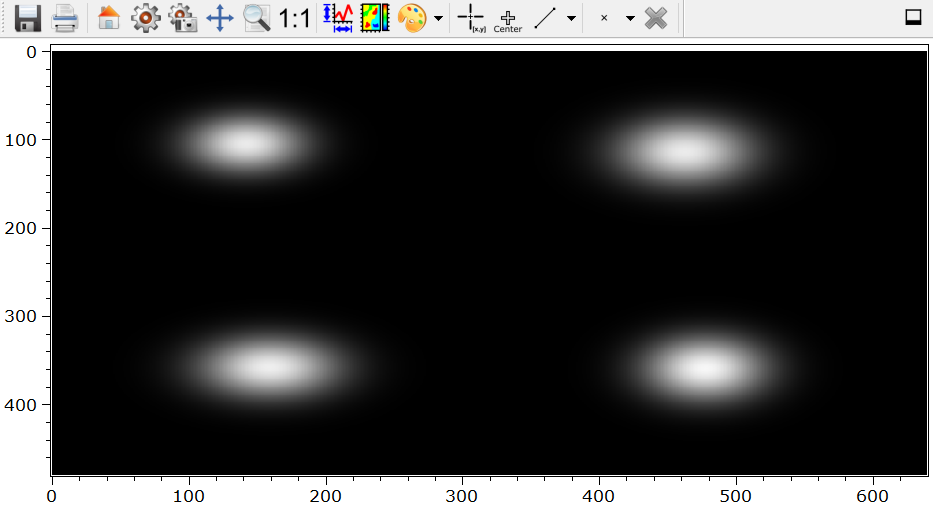
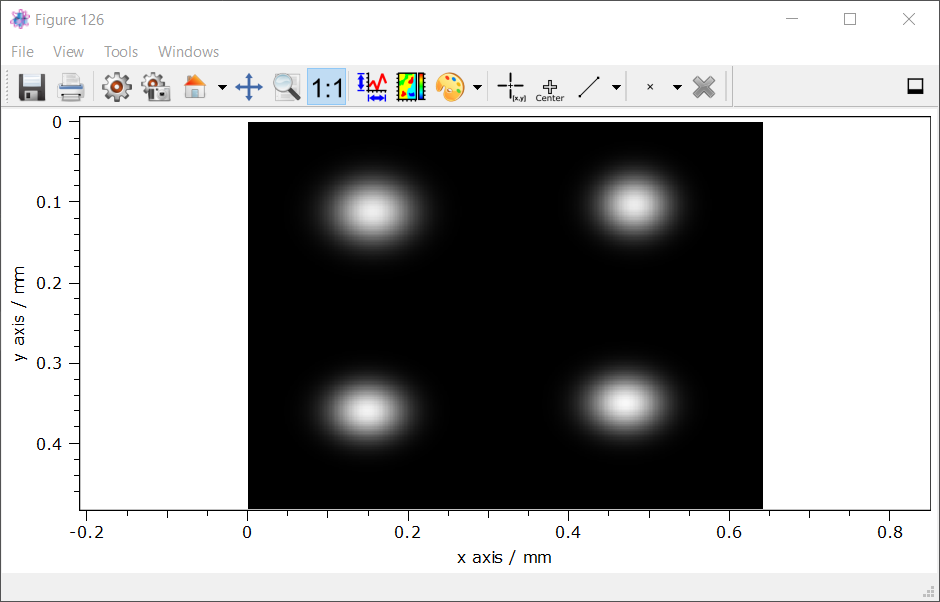
adapted demo_DummyGrabber for meta information of liveImage

diff --git a/demo/itom/plugins/demo_DummyGrabber.py b/demo/itom/plugins/demo_DummyGrabber.py
@@ -2,7 +2,11 @@
 ================
 
 This demo shows with the example of the ``DummyGrabber``
-how grabber and cameras are used in ``itom``."""
+how grabber and cameras are used in ``itom``.
+3 ``DummyGrabber`` instances are created.
+The ``camera`` shows how to set parameter like ``region of interest``.
+Using the ``cameraGaussian`` it is show how to define meta information
+of the image showing axis descriptions, units, ..."""
 
 from itom import dataIO
 from itom import dataObject
@@ -96,18 +100,27 @@ camera.stopDevice()
 liveImage(camera)
 
 ###############################################################################
-# .. image:: ../../_static/demoDummyGrabber_1.png
-#    :width: 100%
-liveImage(cameraGaussian)
+# Set meta information for the gaussianSpot of image for liveImage and return image.
+# The axis properties are set assuming a pixel pitch of 10µm.
+# The offset is set such that origin is in the center.
+cameraGaussian.setParam("axisScale", (10e-6, 10e-6))  # scale 10µm
+cameraGaussian.setParam("axisOffset", ((480-1)/2, (640-1)/2))  # origin on center
+cameraGaussian.setParam("axisDescription", ("y axis", "x axis"))
+cameraGaussian.setParam("axisUnit", ("µm", "µm"))
+cameraGaussian.setParam("valueDescription", "counts")
+cameraGaussian.setParam("valueUnit", "a.u.")
 
 ###############################################################################
+# Start a live image with aspect ratio of 1 and visible colorBar.
+#
 # .. image:: ../../_static/demoDummyGrabber_2.png
 #    :width: 100%
-liveImage(cameraGaussianArray)
+liveImage(cameraGaussian, properties={"colorMap": "falseColorIR", "keepAspectRatio": True, "colorBarVisible": True})
 
 ###############################################################################
 # .. image:: ../../_static/demoDummyGrabber_3.png
 #    :width: 100%
+liveImage(cameraGaussianArray)
 
 ###############################################################################
 # Acquire an image stack of 10 measurements.
